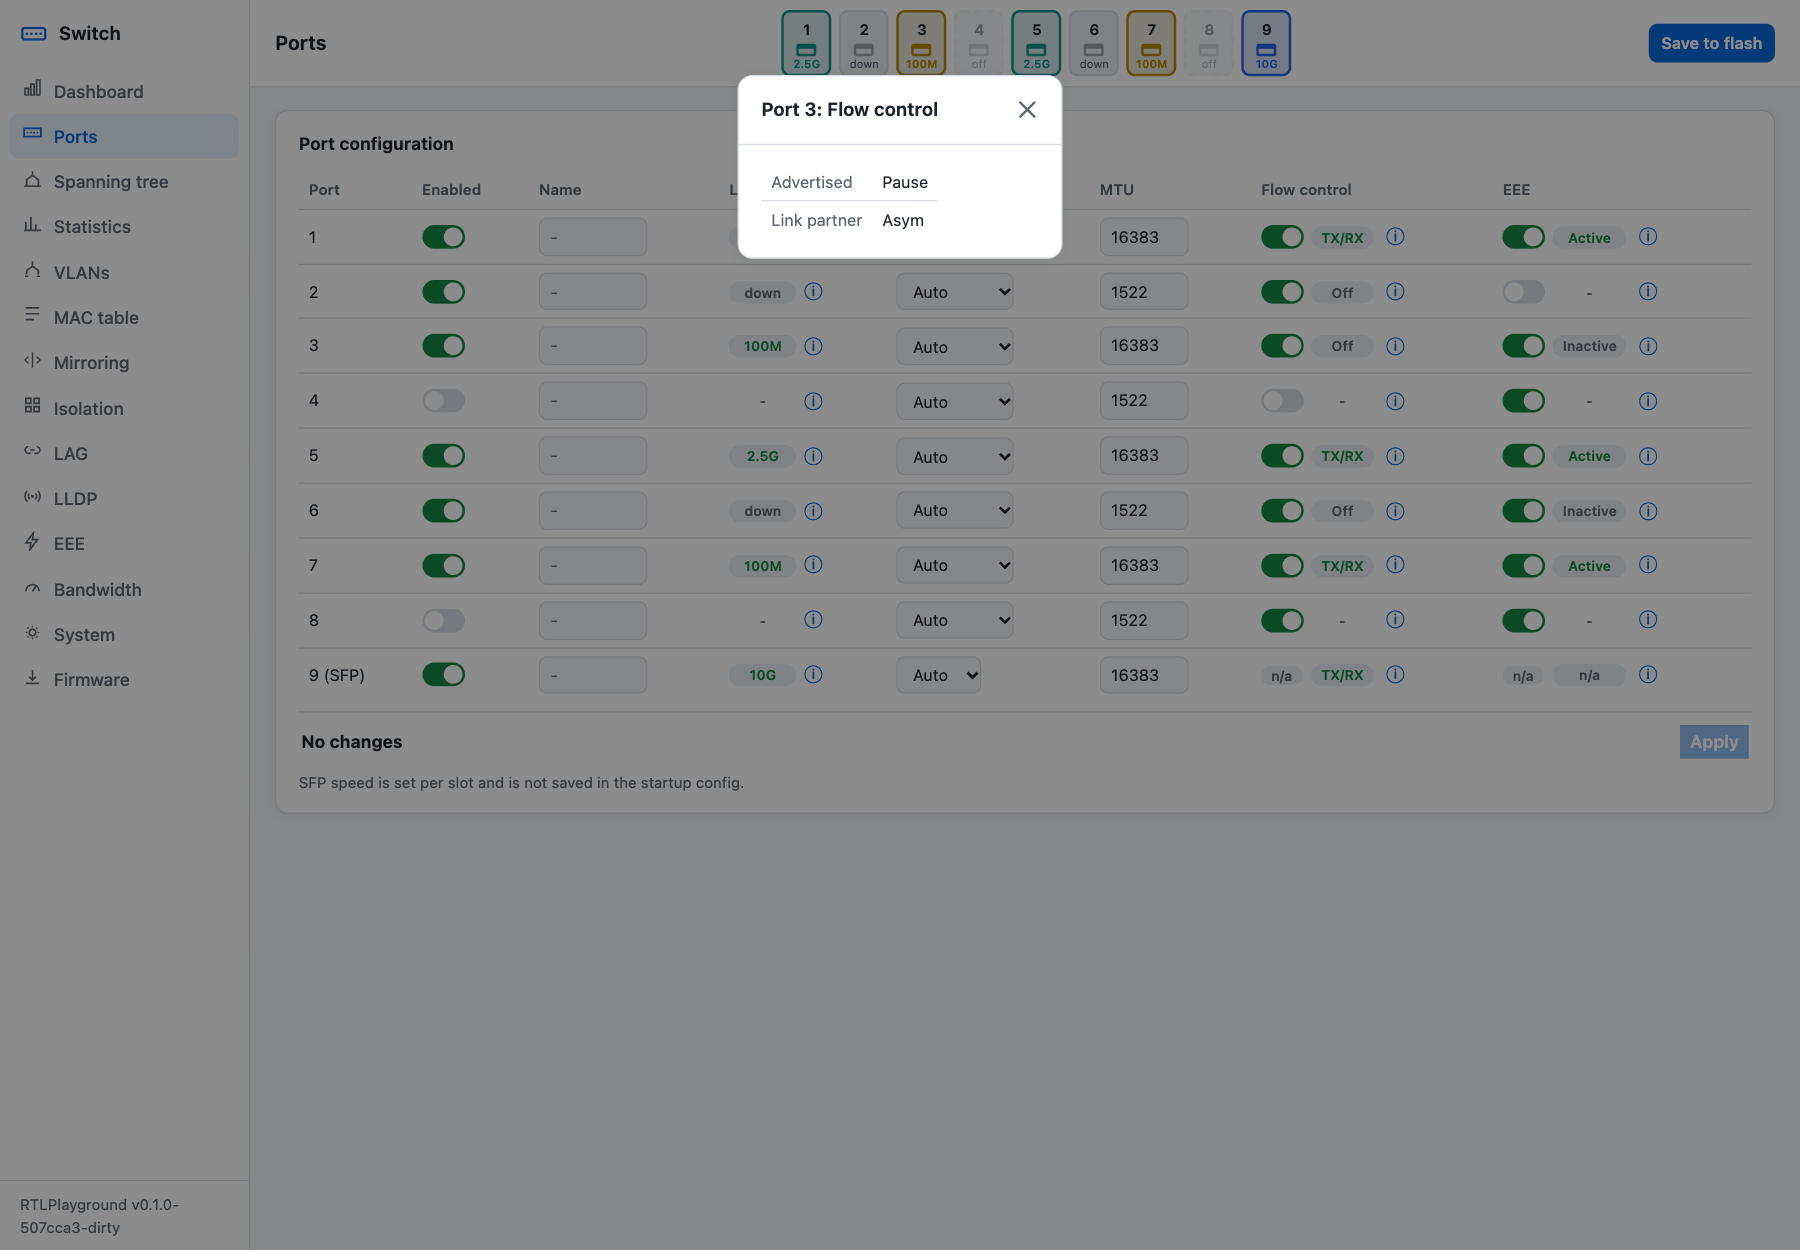
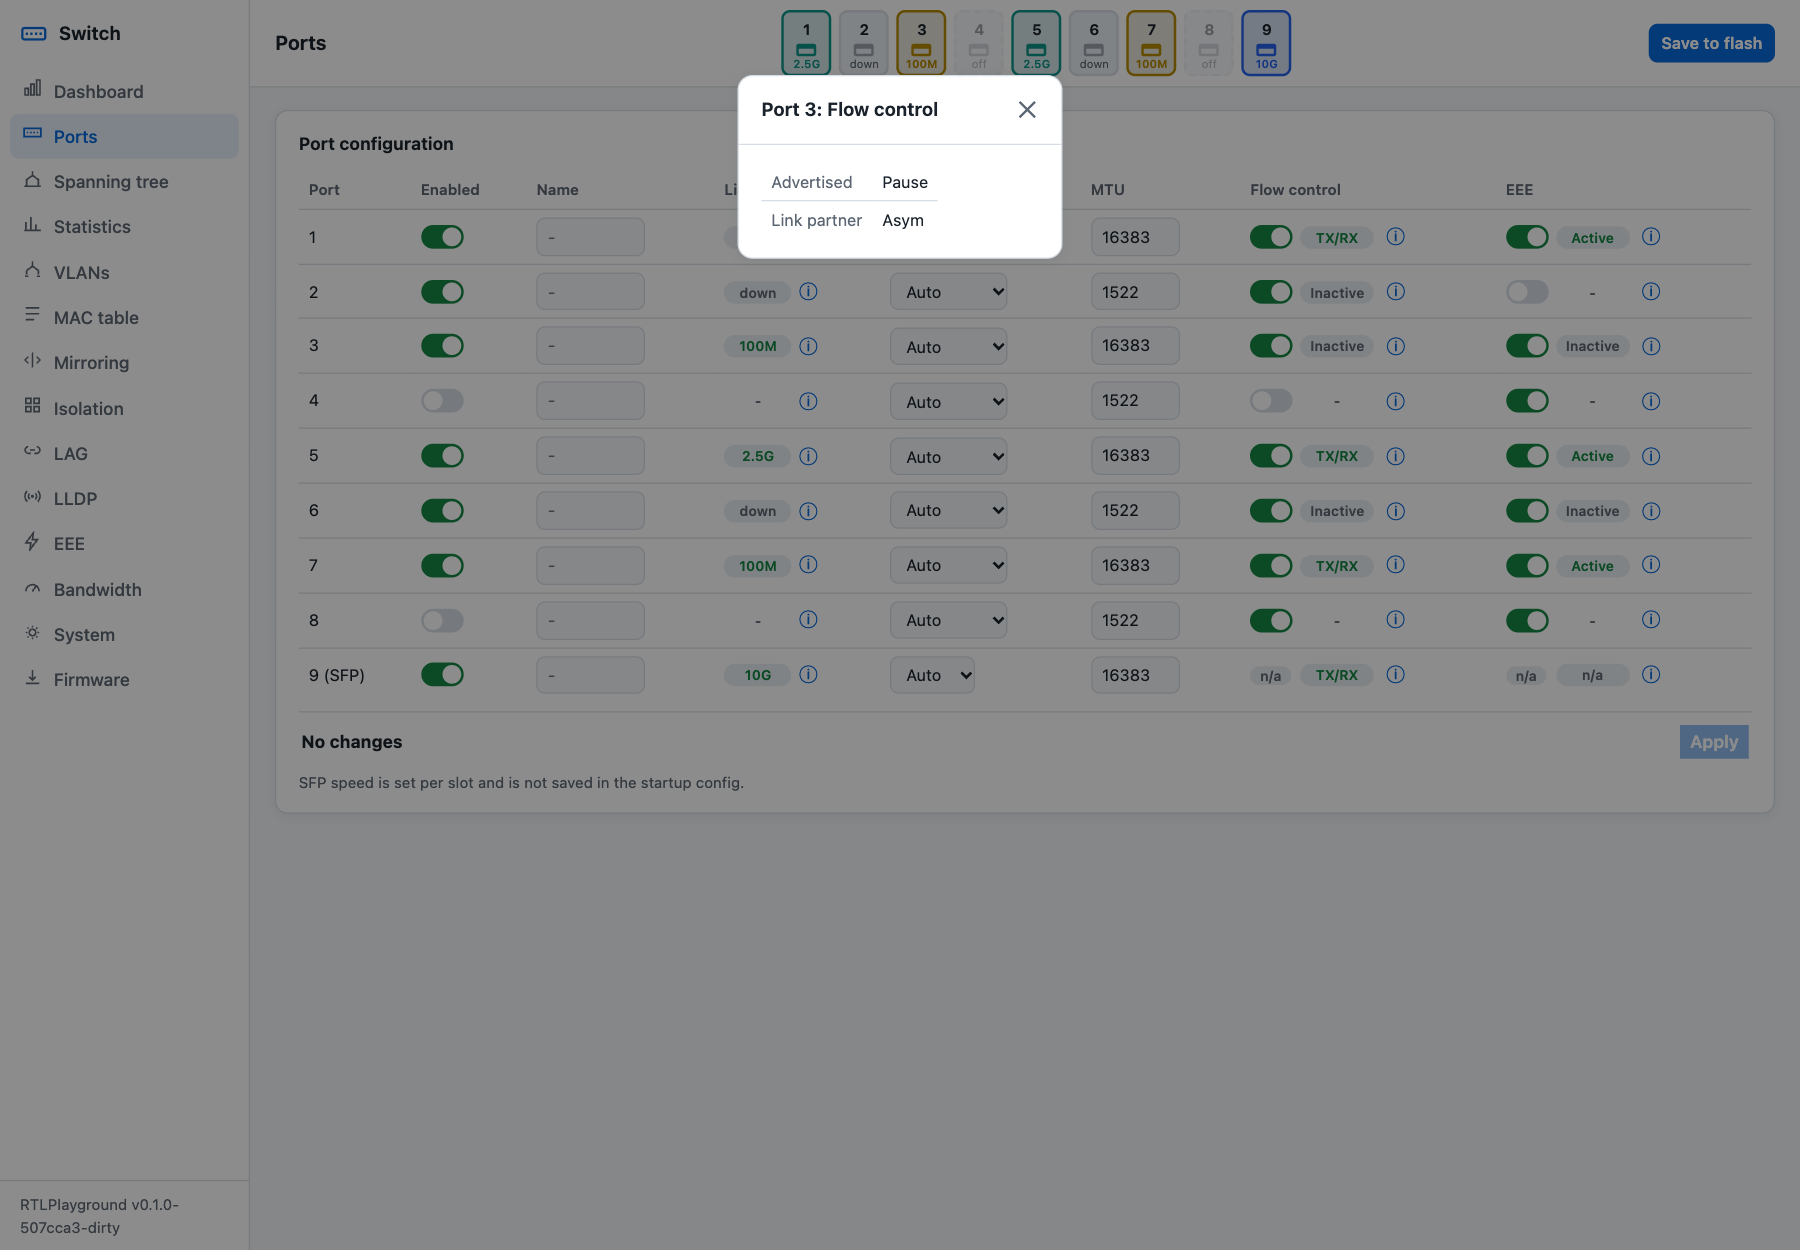
Mock-up J: flow control shows Inactive when no pause is negotiated

diff --git a/html/mockup.js b/html/mockup.js
@@ -16,11 +16,11 @@ function sw(on,dis){
   l.firstChild.checked=!!on;if(dis)l.firstChild.disabled=true;
   return l;
 }
-// "-" = port or feature switched off; "Off"/"Inactive" = switched on but not in use on this link
+// "-" = port or feature switched off; "Inactive" = switched on but not in use on this link
 function dash(){return'<span class="badge" style="background:none">-</span>'}
-// Paired labels share capitalisation: Active/Inactive for EEE, Off when flow control negotiated no pause
-LANG.en.e_inactive="Inactive";LANG.de.e_inactive="Inaktiv";LANG.en.fc_off="Off";LANG.de.fc_off="Aus";
-function fcNeg(p){var f=FC[p.portNum],n=f>>4&3;return!p.enabled||(!p.isSFP&&!(f&1))?dash():n?badge(["","TX","RX","TX/RX"][n],"ok"):badge(t("fc_off"))}
+// Paired labels share capitalisation: Active/Inactive for EEE; flow control shows the negotiated direction or Inactive
+LANG.en.e_inactive="Inactive";LANG.de.e_inactive="Inaktiv";
+function fcNeg(p){var f=FC[p.portNum],n=f>>4&3;return!p.enabled||(!p.isSFP&&!(f&1))?dash():n?badge(["","TX","RX","TX/RX"][n],"ok"):badge(t("e_inactive"))}
 function eeeSt(p){var e=EEE[p.portNum];return p.isSFP?badge(t("e_na")):!p.enabled||!parseInt(e.adv,2)?dash():e.active?badge(t("e_active"),"ok"):badge(t("e_inactive"))}
 function cellWith(tr,kids){var c=tr.insertCell();c.style.whiteSpace="nowrap";kids.forEach(function(k){typeof k==="string"?c.insertAdjacentHTML("beforeend",k):c.appendChild(k)});return c}
 
@@ -404,7 +404,7 @@ function jControls(p){
 // Every status badge in a column is as wide as the widest label that column can show in the current
 // language, so the ⓘ that follows lines up without right-aligning it
 function fitBadges(){
-  var sets={fitlink:LINKS.slice(1).concat([t("c_off"),t("c_down")]),fitfc:["TX","RX","TX/RX",t("fc_off"),t("e_na")],fiteee:[t("e_active"),t("e_inactive"),t("e_na")]};
+  var sets={fitlink:LINKS.slice(1).concat([t("c_off"),t("c_down")]),fitfc:["TX","RX","TX/RX",t("e_inactive"),t("e_na")],fiteee:[t("e_active"),t("e_inactive"),t("e_na")]};
   var probe=h("div",{style:"position:absolute;visibility:hidden"});document.body.appendChild(probe);
   var css="";
   for(var k in sets){
